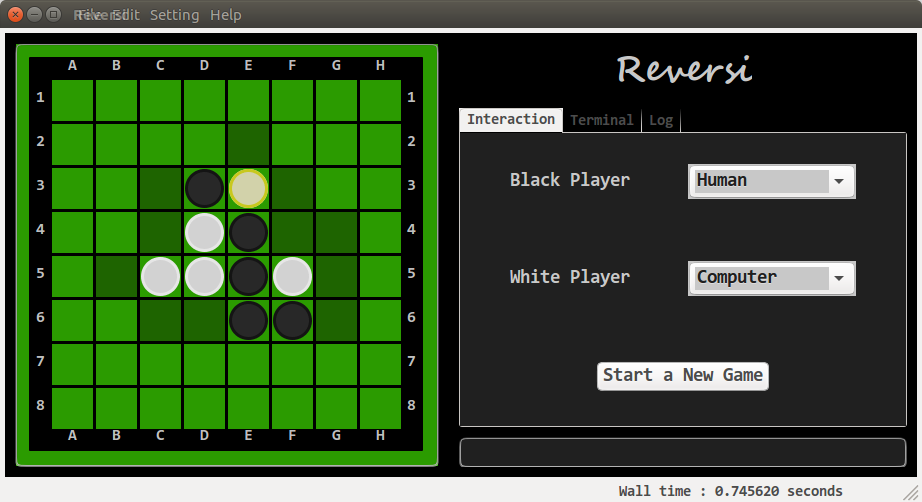
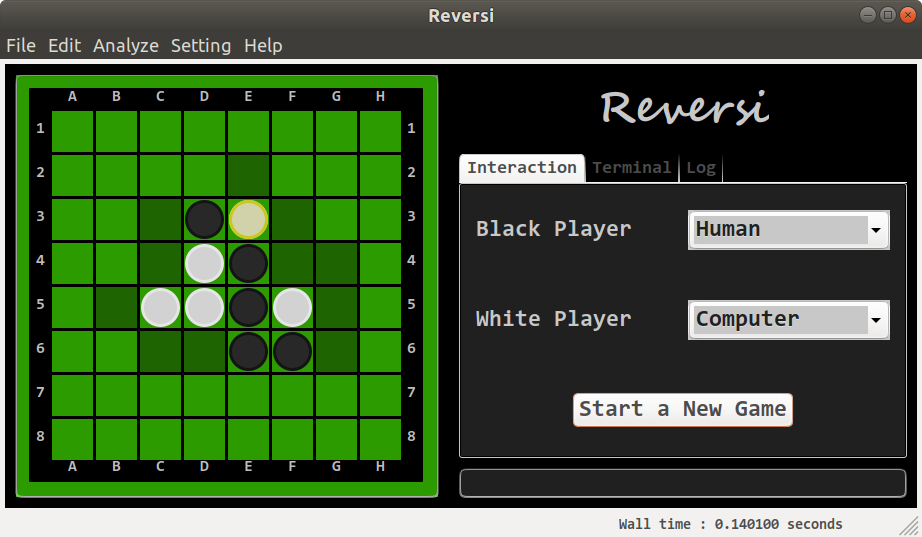
Add scipy to prerequisites and update the screenshot.

diff --git a/Readme.md b/Readme.md
@@ -19,8 +19,8 @@ Here are prebuilt binaries. Download and extract one to the subdirectory python/
 	- A decent C++ compiler  
 		C++11 must be supported by this compiler. Inline assembly will not be used when compiled by Visual Studio as MS compiler supports neither 64-bit inline assembly nor AT&T flavor syntax.
 	- [Python3](https://www.python.org/)
-	- [swig](http://swig.org/)
-	- [numpy](http://www.numpy.org/)
+	- [Swig](http://swig.org/)
+	- [NumPy](http://www.numpy.org/)
 	- [CMake](https://cmake.org/)  
 	Please make sure that the directory of python3, swig and cmake has been appended to the environment variable PATH.
 
@@ -42,7 +42,8 @@ Here are prebuilt binaries. Download and extract one to the subdirectory python/
 	- library _reversi.so or _reversi.pyd (should be downloaded here or built from source)
 	- [Python3](https://www.python.org/)
 	- [wxPython](https://www.wxpython.org/)
-	- [numpy](http://www.numpy.org/)
+	- [NumPy](http://www.numpy.org/)
+	- [SciPy](https://www.scipy.org/)
 
 - Execute the main program  
 	`cd app`  
